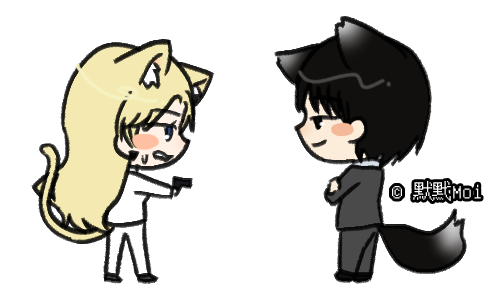
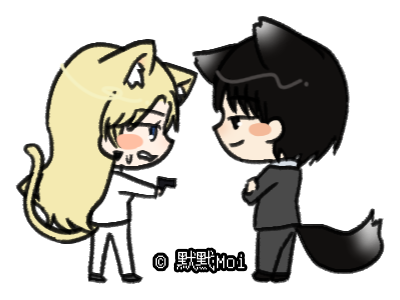
修改小說手機板背景圖

Changed region(s): [[0.03, 0.03, 0.99, 0.96]]

diff --git a/a-cage-of-lies-nob/episode1-chapter-1.html b/a-cage-of-lies-nob/episode1-chapter-1.html
@@ -25,7 +25,7 @@
       left: 50%;
       transform: translateX(-50%);
   
-      width: 500px;
+      width: 400px;
       height: 300px;
   
       background-image: url("../images/a-cage-of-lies-nob-bg-2.png");

diff --git a/a-cage-of-lies-nob/index.html b/a-cage-of-lies-nob/index.html
@@ -28,7 +28,7 @@
       left: 50%;
       transform: translateX(-50%);
   
-      width: 500px;
+      width: 400px;
       height: 300px;
   
       background-image: url("../images/a-cage-of-lies-nob-bg-1.png");

diff --git a/a-cage-of-lies-nob/prologue.html b/a-cage-of-lies-nob/prologue.html
@@ -25,7 +25,7 @@
       left: 50%;
       transform: translateX(-50%);
   
-      width: 500px;
+      width: 400px;
       height: 300px;
   
       background-image: url("../images/a-cage-of-lies-nob-bg-1.png");
